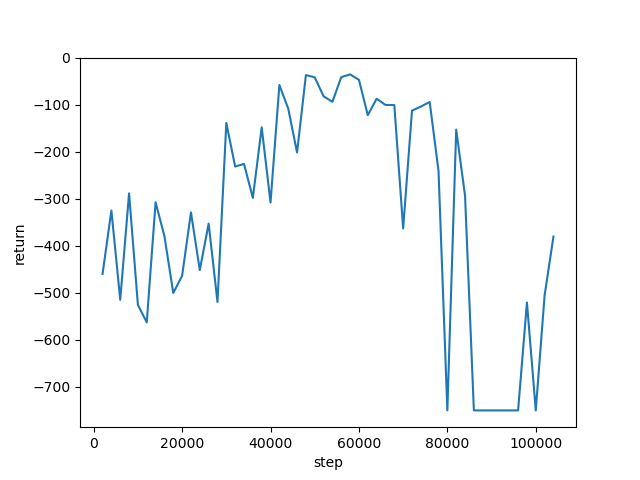
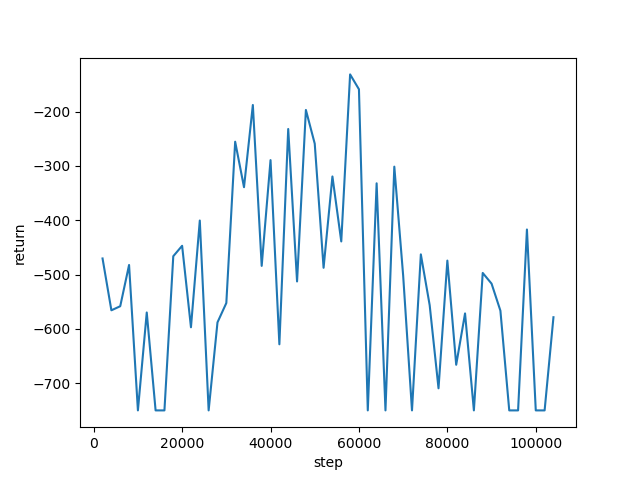
test random location tol = 1

diff --git a/task_ur5_visual_reacher_min_task.py b/task_ur5_visual_reacher_min_task.py
@@ -51,6 +51,7 @@ def parse_args():
     parser.add_argument('--ignore_joint', default=False, action='store_true')
     parser.add_argument('--episode_length_time', default=30.0, type=float)
     parser.add_argument('--dt', default=0.04, type=float)
+    parser.add_argument('--tol', default=1, type=float)
     # replay buffer
     parser.add_argument('--replay_buffer_capacity', default=100000, type=int)
     parser.add_argument('--rad_offset', default=0.01, type=float)
@@ -81,7 +82,7 @@ def parse_args():
     parser.add_argument('--port', default=9876, type=int)
     parser.add_argument('--mode', default='o', type=str, help="Modes in ['r', 'o', 'ro', 'e'] ")
     # misc
-    parser.add_argument('--appendix', default='min-time', type=str)
+    parser.add_argument('--appendix', default='min-time-random-target', type=str)
     parser.add_argument('--seed', default=9, type=int)
     parser.add_argument('--work_dir', default='.', type=str)
     parser.add_argument('--save_tb', default=False, action='store_true')
@@ -118,6 +119,7 @@ def main():
 
     args.work_dir += f'/results/{args.env_name}_' \
                      f'dt={args.dt}_bs={args.batch_size}_' \
+                     f'tol={args.tol}_'\
                      f'dim={args.image_width}*{args.image_height}_{args.seed}_'+args.appendix
 
     args.model_dir = args.work_dir+'/model'
@@ -143,6 +145,7 @@ def main():
         joint_history = args.joint_history,
         episode_length = args.episode_length_time,
         dt = args.dt,
+        tol = args.tol
     )
 
     utils.set_seed_everywhere(args.seed, None)

diff --git a/envs/visual_ur5_min_time_reacher/env.py b/envs/visual_ur5_min_time_reacher/env.py
@@ -17,8 +17,9 @@ class VisualReacherMinTimeEnv:
                  joint_history=1,
                  episode_length=30,
                  dt=0.04,
+                 tol=1
                 ):
-        
+        self._tol = tol
         # state
         np.random.seed(seed)
         rand_state = np.random.get_state()
@@ -90,7 +91,7 @@ class VisualReacherMinTimeEnv:
         done = 0
         info = {}
         info['reward'] = reward
-        if reward >= 0.5:
+        if reward >= self._tol:
             done = 1
 
         if done or terminated:

diff --git a/envs/visual_ur5_reacher/ur_setup.py b/envs/visual_ur5_reacher/ur_setup.py
@@ -160,7 +160,7 @@ setups = {
                   #'end_effector_high': np.array([0.4, 0.8, 0.8]),
                   'end_effector_low': np.array([-0.25, 0.2, 0.35]),
                   # for origin: -0.1, 0.3, 0.6
-                  'end_effector_high': np.array([0.15, 0.55, 0.7]),
+                  'end_effector_high': np.array([0.15, 0.53, 0.7]),
                   'angles_low':np.pi/180 * np.array(
                       [ 60, # base
                        -120, # shoulder

diff --git a/plot copy.py b/plot copy.py
@@ -8,7 +8,7 @@ df = pandas.DataFrame(columns=["step", "avg_ret"])
 
 int = 2000
 for seed in range(0, 1):
-    exp = "Visual-UR5-min-time_dt=0.04_bs=256_dim=160*90_9_min-time"
+    exp = "Visual-UR5-min-time_dt=0.04_bs=256_tol=1_dim=160*90_9_min-time-random-target"
 
     with open("results/"+exp+"/train.log") as f:
         episodes = f.readlines()
